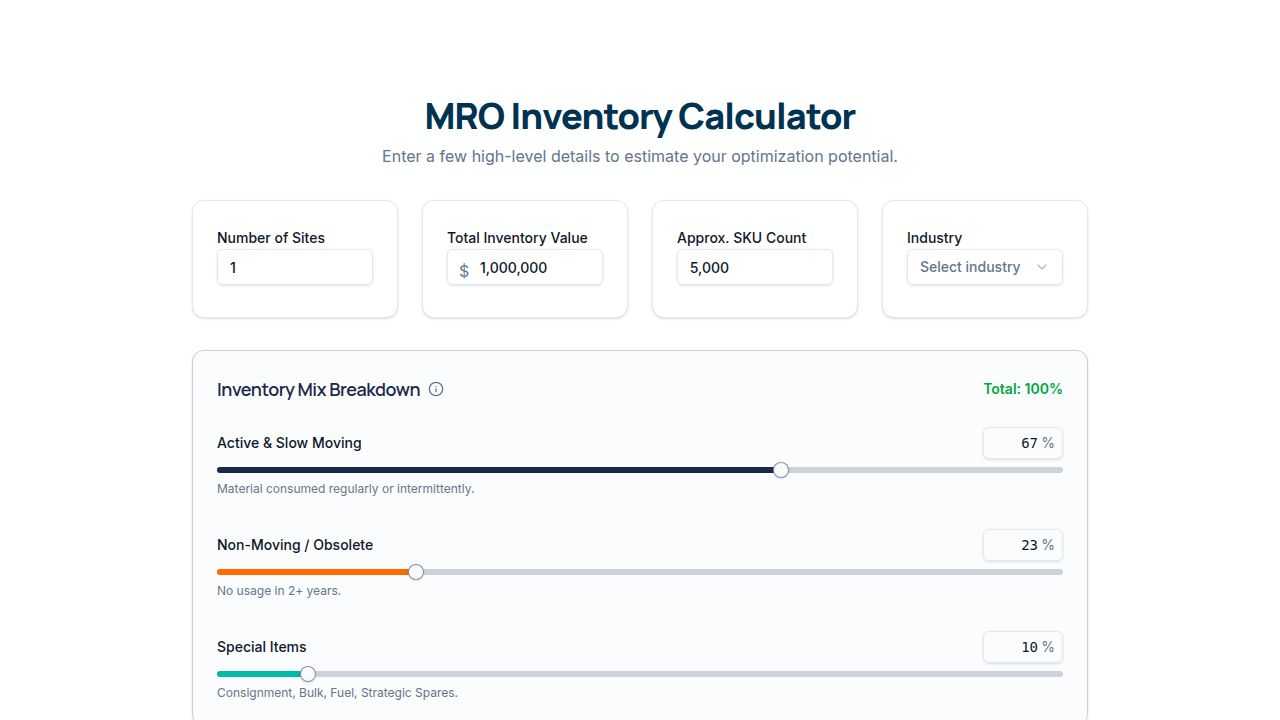
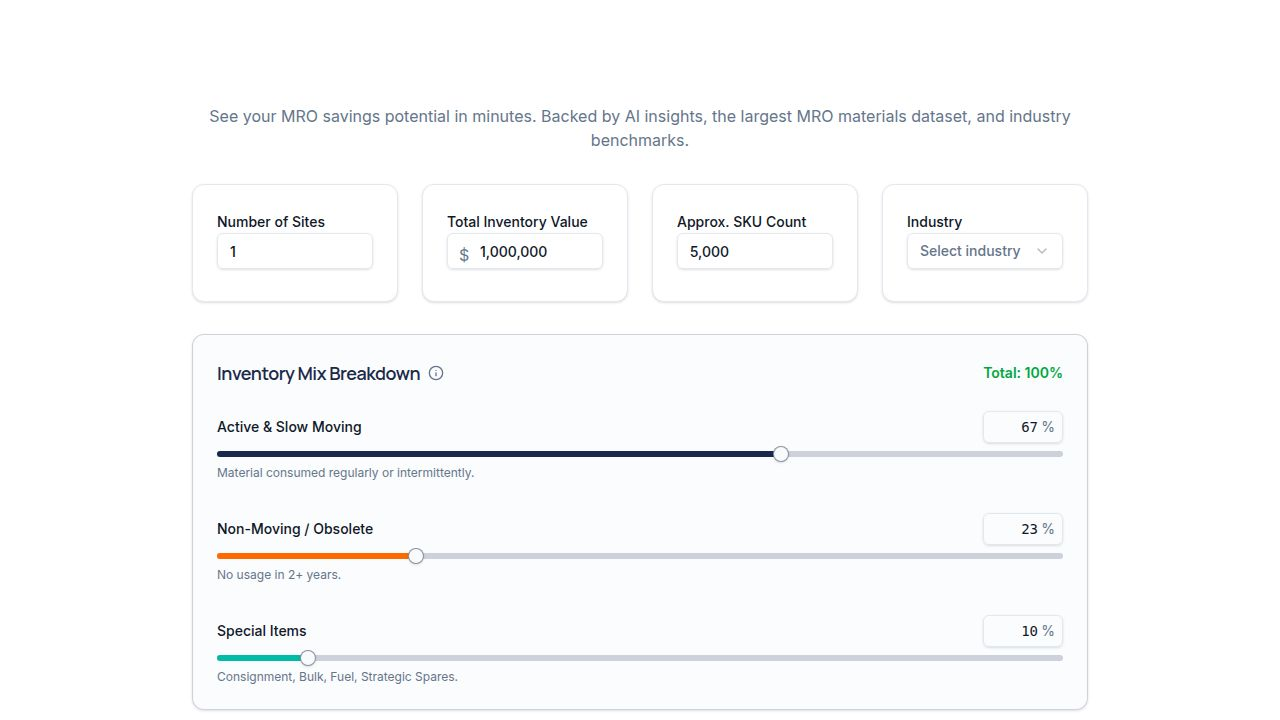
Update calculator page with new title and descriptive text
Modify the input step component to update the page title and introductory text.

Replit-Commit-Author: Agent
Replit-Commit-Session-Id: 53460933-c99f-407e-b4b2-4acf8d67a946
Replit-Commit-Checkpoint-Type: full_checkpoint
Replit-Commit-Event-Id: 5ddd0c53-e7dd-4584-a093-4fded6e36b77
Replit-Commit-Screenshot-Url: https://storage.googleapis.com/screenshot-production-us-central1/d8290253-7722-459b-ab84-131e83c139fe/53460933-c99f-407e-b4b2-4acf8d67a946/4ZO7bDh
Replit-Helium-Checkpoint-Created: true

diff --git a/client/src/components/calculator/InputStep.tsx b/client/src/components/calculator/InputStep.tsx
@@ -56,8 +56,7 @@ export function InputStep({ onComplete, defaultValues }: InputStepProps) {
   return (
     <div className="max-w-4xl mx-auto">
       <div className="mb-8 text-center">
-        <h2 className="text-4xl font-extrabold" style={{ color: '#003252' }}>MRO Inventory Calculator</h2>
-        <p className="text-muted-foreground mt-2">Enter a few high-level details to estimate your optimization potential.</p>
+        <p className="text-muted-foreground mt-2">See your MRO savings potential in minutes. Backed by AI insights, the largest MRO materials dataset, and industry benchmarks.</p>
       </div>
 
       <Form {...form}>
